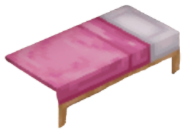
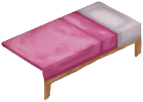
made room + assets smaller

Changed region(s): [[0.0, 0.0, 1.0, 1.0], [0.6434, 0.3529, 0.6993, 0.5], [0.4755, 0.2059, 0.5035, 0.2353]]

diff --git a/src/styles/styles.css b/src/styles/styles.css
@@ -28,8 +28,8 @@ body {
 
 .room {
   position: relative;
-  width: 900px;
-  /* margin: 100px; */
+  width: min(90vw, 900px);
+  margin: 20px;
 }
 
 .room img {
@@ -79,4 +79,36 @@ body {
   transform: translateX(-50%);
   padding: 0.05rem;
   border-radius: 8px;
+}
+
+/* width */
+::-webkit-scrollbar {
+  width: 10px;
+  height: 10px;
+}
+
+/* track (background) */
+::-webkit-scrollbar-track {
+  background: rgba(255, 200, 255, 0.08);
+  border-radius: 10px;
+}
+
+/* draggable part */
+::-webkit-scrollbar-thumb {
+  background: linear-gradient(
+    180deg,
+    rgb(255, 155, 211),
+    rgb(255, 120, 206)
+  );
+  border-radius: 10px;
+  box-shadow: 0 0 6px rgba(255, 120, 206, 0.6);
+}
+
+/* hover effect */
+::-webkit-scrollbar-thumb:hover {
+  background: linear-gradient(
+    180deg,
+    rgb(255, 170, 220),
+    rgb(255, 130, 210)
+  );
 }

diff --git a/src/components/objects/Bookshelf.jsx b/src/components/objects/Bookshelf.jsx
@@ -5,7 +5,7 @@ export default function Bookshelf({ onClick }) {
   return (
     <GameObject
       img={bookshelf}
-      position={{left: "12.8%", bottom:"50.75%"}}
+      position={{left: "17.25%", bottom:"50.75%"}}
       label="projects"
       onClick={onClick}
     />

diff --git a/src/components/objects/Koda.jsx b/src/components/objects/Koda.jsx
@@ -5,7 +5,7 @@ export default function Koda({ openKoda }) {
   return (
     <GameObject
       img={koda}
-      position={{left: "55.5%", bottom:"28.75%"}}
+      position={{left: "50.5%", bottom:"28.75%"}}
       width="12%"
       label="koda"
       onClick={openKoda}

diff --git a/src/components/objects/ArmorStand.jsx b/src/components/objects/ArmorStand.jsx
@@ -5,7 +5,7 @@ export default function ArmorStand({ onClick }) {
   return (
     <GameObject
       img={armor}
-      position={{left: "50.5%", bottom:"75.25%"}}
+      position={{left: "48.75%", bottom:"77%"}}
       label="skills"
       onClick={onClick}
     />

diff --git a/src/components/objects/Painting.jsx b/src/components/objects/Painting.jsx
@@ -5,7 +5,7 @@ export default function Painting({ onClick }) {
   return (
     <GameObject
       img={painting}
-      position={{left: "68%", bottom:"53.75%"}}
+      position={{left: "61.5%", bottom:"54.5%"}}
       label="resume"
       onClick={onClick}
     />

diff --git a/src/components/objects/Lectern.jsx b/src/components/objects/Lectern.jsx
@@ -5,7 +5,7 @@ export default function Lectern({ onClick }) {
   return (
     <GameObject
       img={lectern}
-      position={{left: "30%", bottom:"38.8%"}}
+      position={{left: "31%", bottom:"38.5%"}}
       label="experience"
       onClick={onClick}
     />

diff --git a/src/components/objects/Stove.jsx b/src/components/objects/Stove.jsx
@@ -5,7 +5,7 @@ export default function Stove({ openStove }) {
   return (
     <GameObject
       img={stove}
-      position={{left: "83%", bottom:"41.25%"}}
+      position={{left: "72.75%", bottom:"40.5%"}}
       label="stove"
       onClick={openStove}
     />

diff --git a/src/components/objects/Bed.jsx b/src/components/objects/Bed.jsx
@@ -5,7 +5,7 @@ export default function Bed({ openBed }) {
   return (
     <GameObject
       img={bed}
-      position={{left: "43.8%", bottom:"57.75%"}}
+      position={{left: "42%", bottom:"58.25%"}}
       label="bed"
       onClick={openBed}
     />
